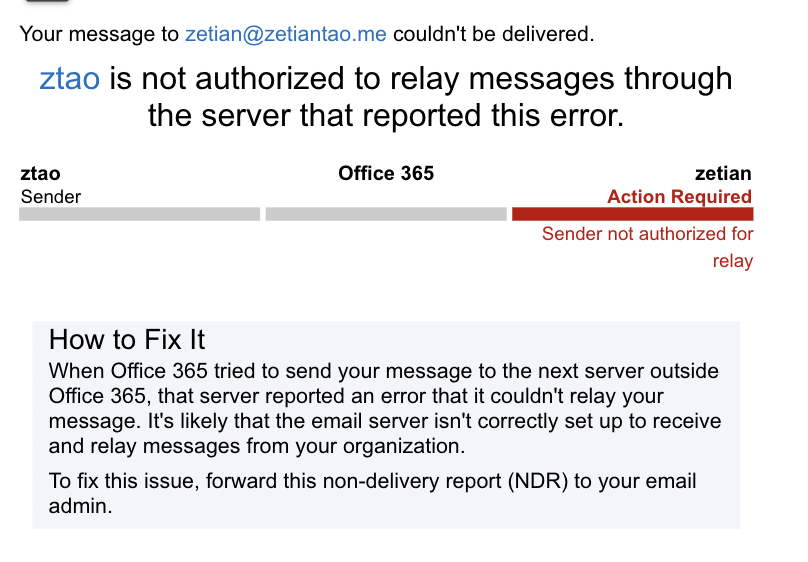
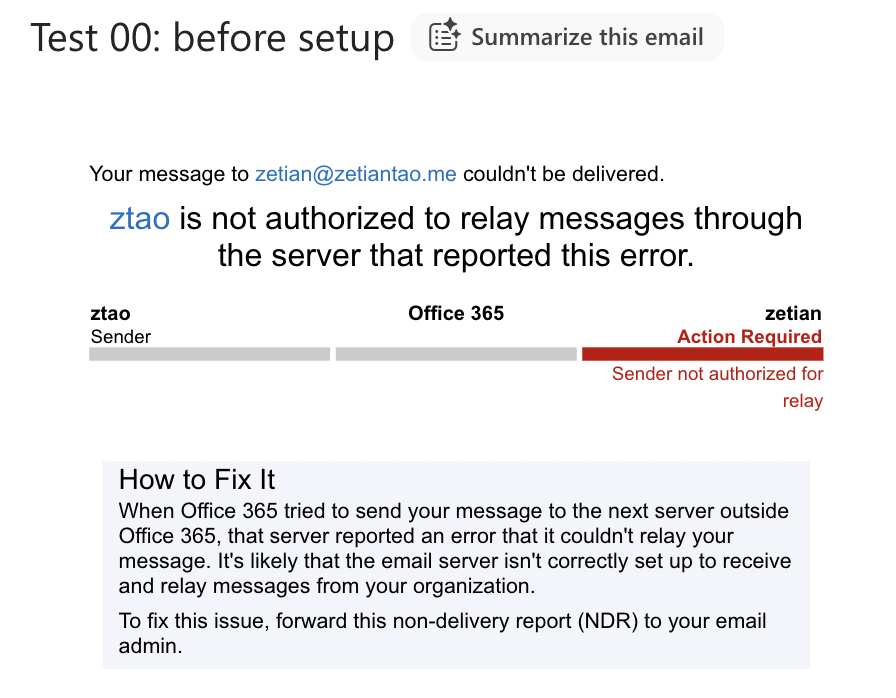
ex06: before-MX bounce screenshot with subject line

Changed region(s): [[0.0, 0.121, 0.9592, 0.605], [0.0619, 0.5747, 0.8973, 0.9377], [0.0309, 0.0, 0.8045, 0.0907]]

diff --git a/docs/evidence/ex06.md b/docs/evidence/ex06.md
@@ -4,7 +4,7 @@
 
 | Test | Time (PT) | Result |
 |---|---|---|
-| Sent from outside mailbox (LMU Office 365) before the Zoho MX records existed | Before Oct 13, 21:35 UTC (exact send time not in the screenshot) | Bounced: "ztao is not authorized to relay messages through the server that reported this error" ([screenshot](img/ex06-before-mx-bounce.png)). See note below. |
+| Sent from outside mailbox (LMU Office 365) before the Zoho MX records existed ("Test 00: before setup") | Before Oct 13, 21:35 UTC (exact send time not in the screenshot) | Bounced: "ztao is not authorized to relay messages through the server that reported this error" ([screenshot](img/ex06-before-mx-bounce.png)). See note below. |
 | Received from outside mailbox ("Ex06 Test01: Inbound") | Oct 17, 12:11 | Arrived in Zoho Inbox |
 | Replied from zetiantao.me ("Ex06 Test02: Reply outbound") | Oct 17, 12:13 | Arrived in outside mailbox; From shows zetian@zetiantao.me |
 | Sent new message from zetiantao.me ("Ex06 Test03: Outbound") | Oct 17, 12:13 | Arrived in outside mailbox; From shows zetian@zetiantao.me |

diff --git a/TASKS.md b/TASKS.md
@@ -39,7 +39,7 @@ From the requirements audit on 2026-10-20 (repo at `1e1fa9d`). Most urgent first
 
 ## 6. Zoho email
 
-- [ ] **Needs you:** add the send date of the before-MX message (from the Office 365 Sent folder or the bounce headers): docs/evidence/ex06.md
+- [ ] **Needs you (partly done):** subject "Test 00: before setup" and a screenshot showing it are recorded. The send date is still missing: open the message in the Office 365 Sent folder (or the bounce's details) and read the date: docs/evidence/ex06.md
 - [x] Header check reuses the Oct 17 header: already stated in its first paragraph. docs/evidence/zoho-header-check.md
 - [ ] **Needs you (partly done):** one Microsoft DMARC report arrived (2026-10-19, covering Oct 17), recorded. Open its XML attachment in Zoho and note the SPF/DKIM results: docs/evidence/zoho-header-check.md → "What this proves"
 
